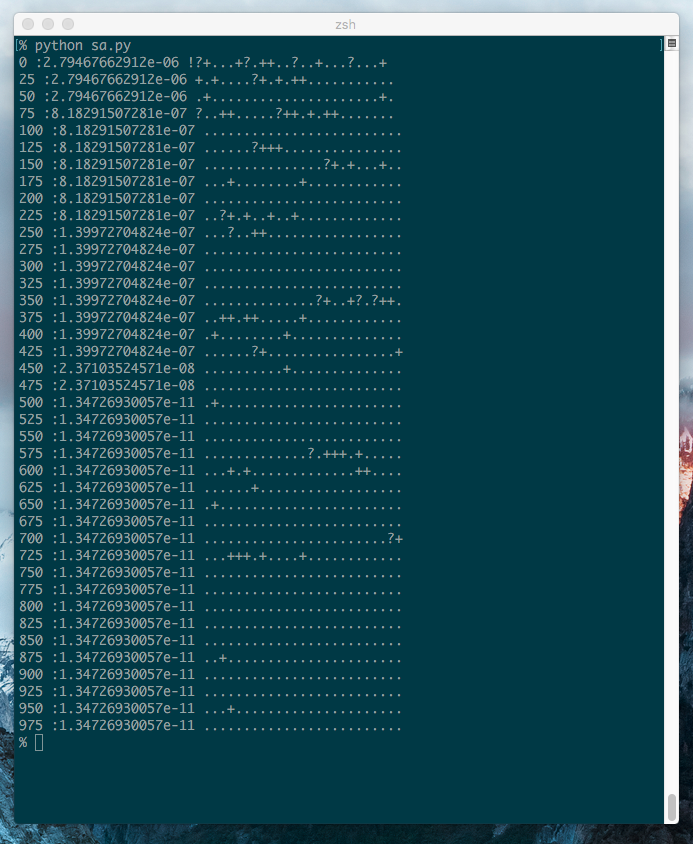
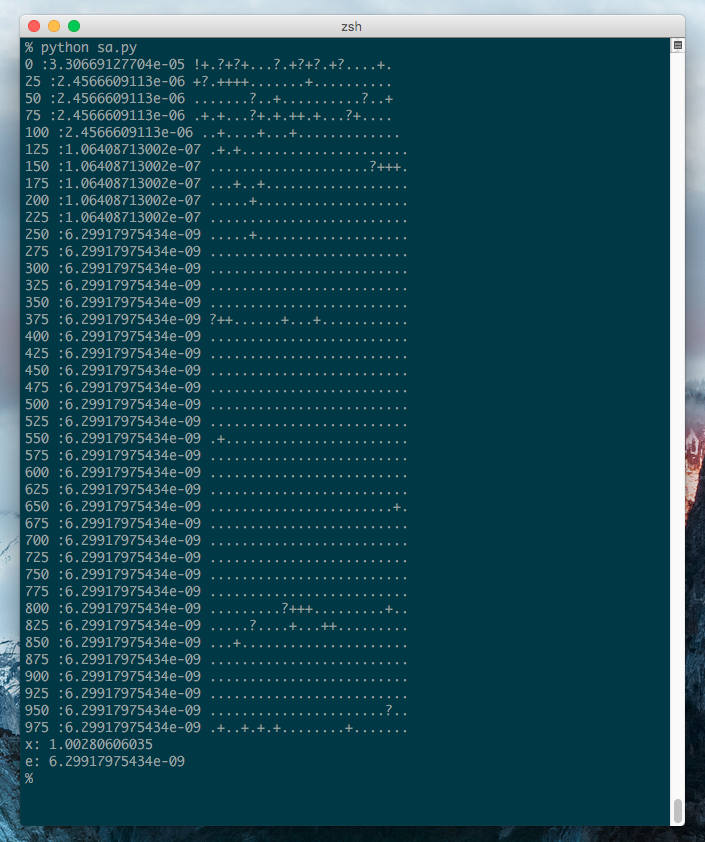
fix code4

Changed region(s): [[0.0, 0.0, 1.0, 1.0]]

diff --git a/hw/code/4/sa.py b/hw/code/4/sa.py
@@ -41,3 +41,6 @@ for i in xrange(ITERS):
   if len(line) == 25:
     print i - 23, ':{}'.format(e_best), line
     line = ''
+
+print 'x:', x_best
+print 'e:', e_best
